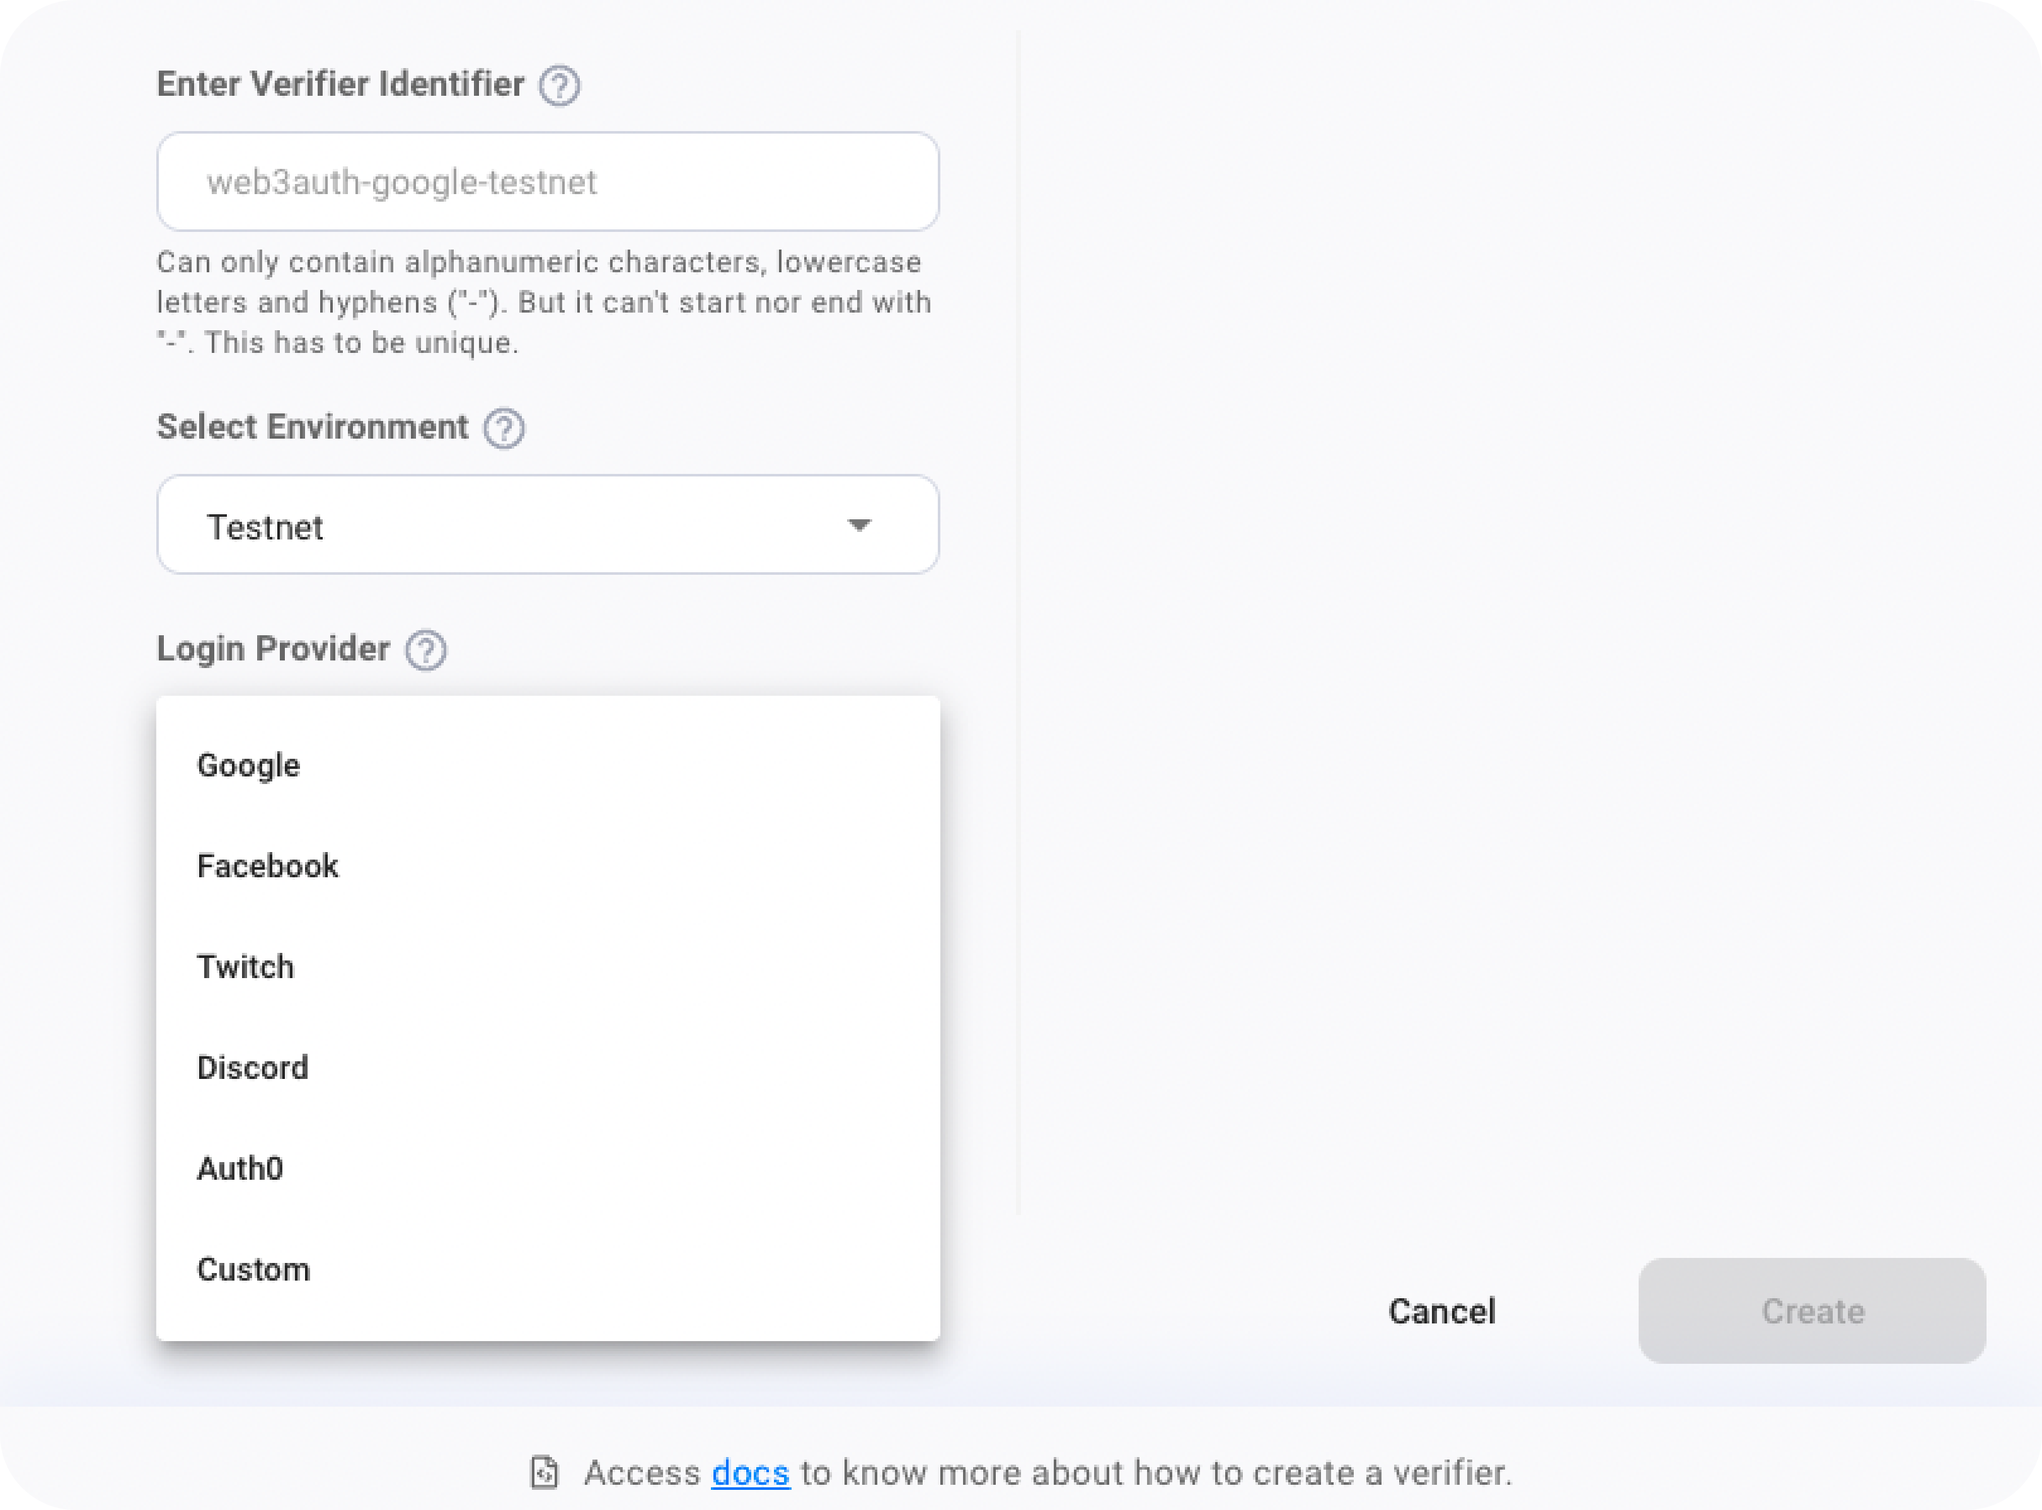
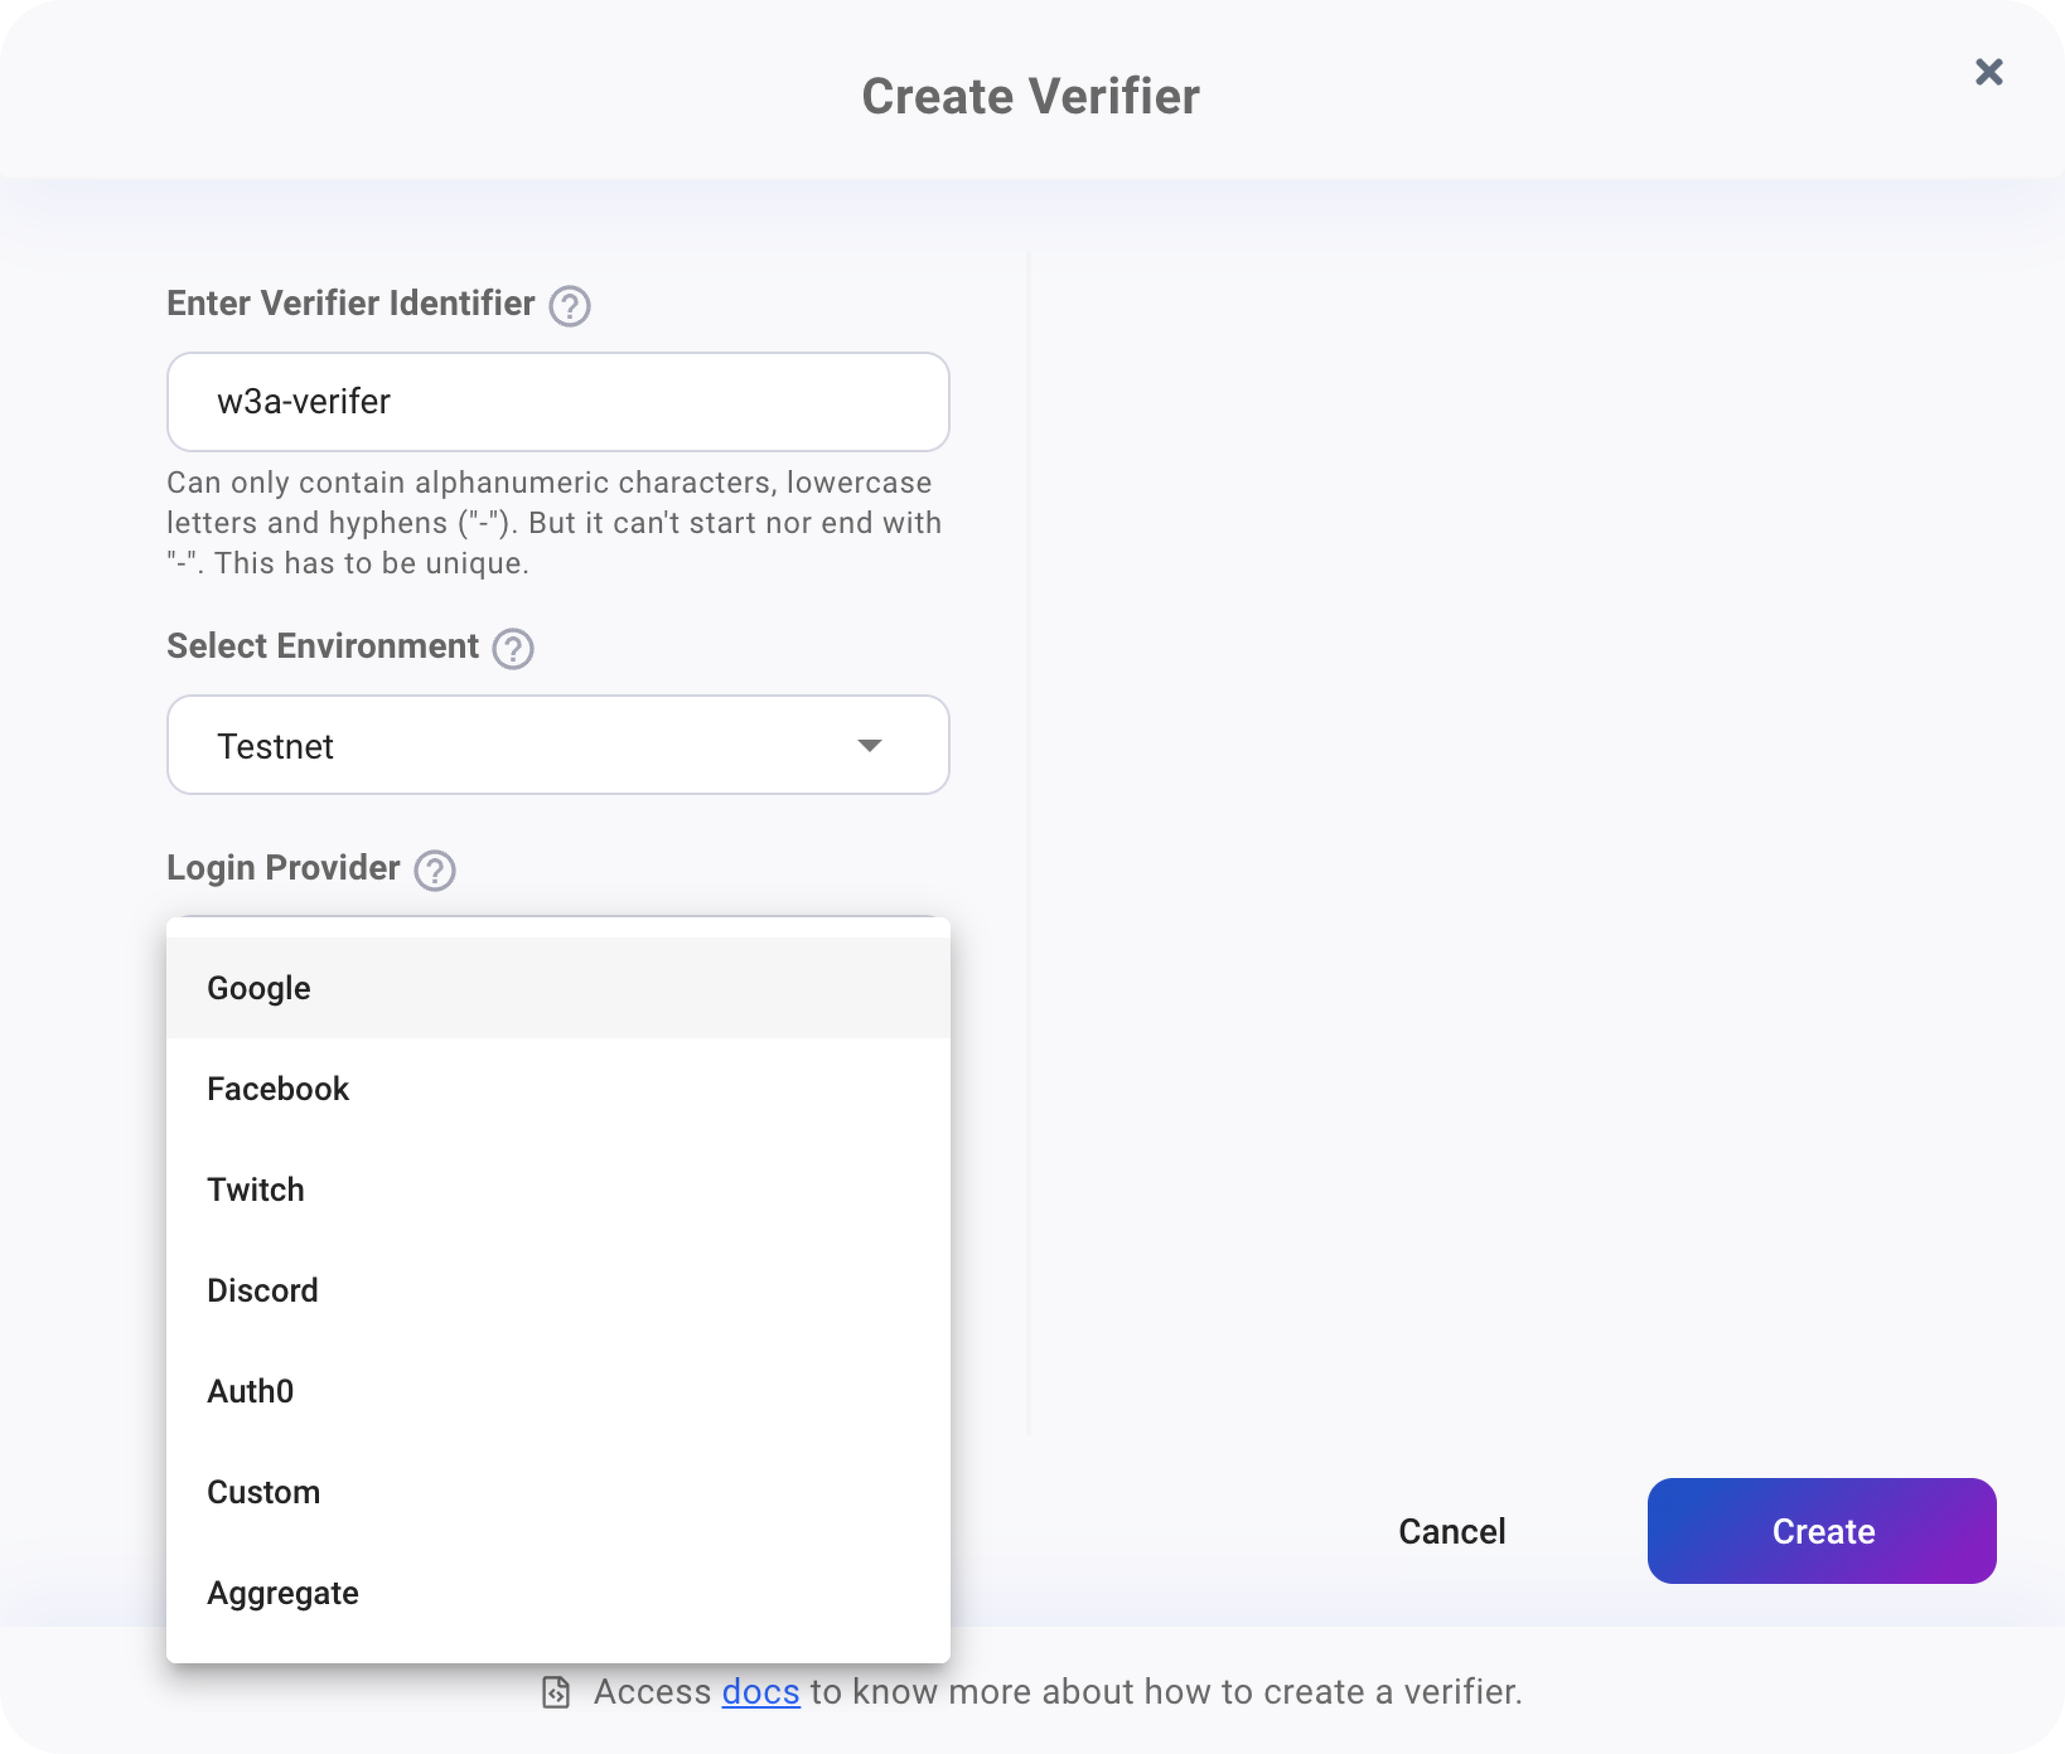
Update Aggregate Verifier page

diff --git a/sidebars.js b/sidebars.js
@@ -157,6 +157,7 @@ module.exports = {
       link: { type: "doc", id: "auth-provider-setup/auth-provider-setup" },
       items: [
         "auth-provider-setup/verifiers",
+        "auth-provider-setup/aggregate-verifier",
         {
           type: "category",
           label: "Social Providers",
